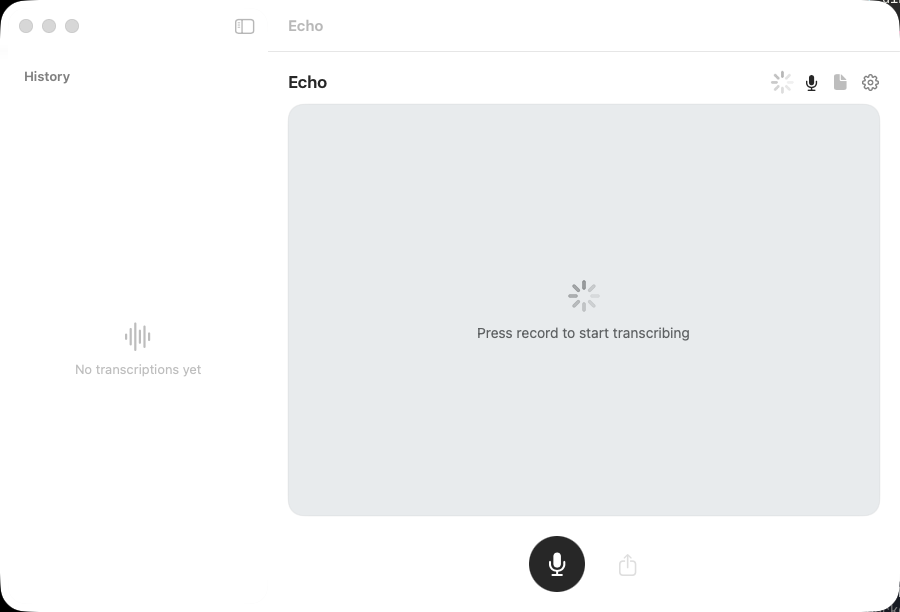
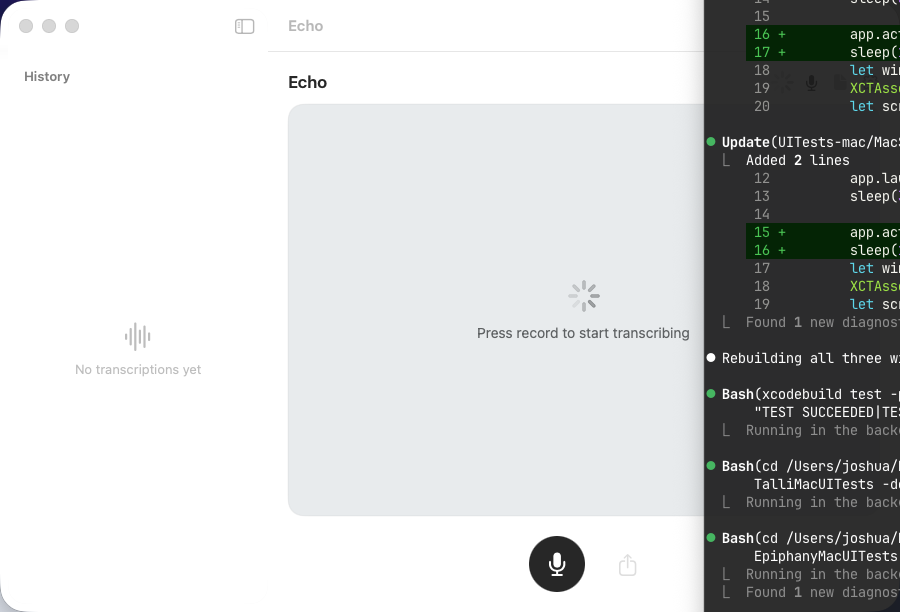
Fix macOS screenshot: activate app before capture to avoid stale window content

diff --git a/UITests-mac/MacScreenshot.swift b/UITests-mac/MacScreenshot.swift
@@ -12,6 +12,8 @@ final class MacScreenshot: XCTestCase {
         app.launch()
         sleep(3)
 
+        app.activate()
+        sleep(1)
         let window = app.windows.firstMatch
         XCTAssertTrue(window.waitForExistence(timeout: 10), "App window never appeared")
         let screenshot = window.screenshot()